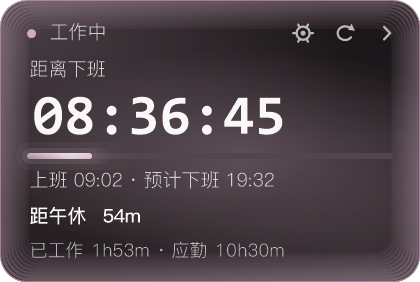
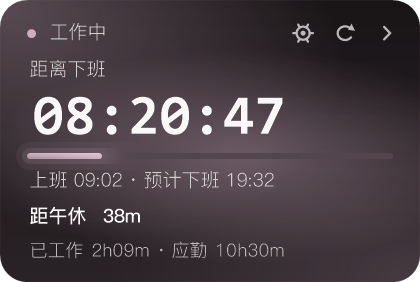
fix: 调色方块点击、取消 D 光效并恢复默认原样式 (v2.7.2)
修复 SvPanel.Changed 未把 sat/val 收回表单导致调色方块点了没反应；删除 D 内缘轮廓光，背景光效改为原样式(默认)/A/B/A+B；测试 106+140。

diff --git a/src/Widget.cs b/src/Widget.cs
@@ -1647,12 +1647,11 @@ namespace WorkCountdown
         private void PaintCardGlow(Graphics g, GraphicsPath cardPath)
         {
             string mode = settings.ui.cardGlow;
-            if (mode != "corner" && mode != "bar" && mode != "rim" && mode != "all") return;
+            if (mode != "corner" && mode != "bar" && mode != "all") return;   // classic = 上个版本原样
             bool all = mode == "all";
             bool a = all || mode == "corner";
             bool b = all || mode == "bar";
-            bool d = all || mode == "rim";
-            double damp = all ? 0.55 : 1.0;
+            double damp = all ? 0.70 : 1.0;
             Color accent = theme.accent;
             var saved = g.Save();
             g.SetClip(cardPath, CombineMode.Intersect);
@@ -1674,10 +1673,6 @@ namespace WorkCountdown
                 DrawGlowEllipse(g, new RectangleF(cx - rx, cy - ry, rx * 2, ry * 2),
                     new PointF(cx, cy), accent, 0.32 * CardGlowStrength * damp);
             }
-            if (d)
-            {
-                DrawRimGlow(g, accent, 0.46 * CardGlowStrength * damp);
-            }
             g.Restore(saved);
         }
 
@@ -1697,26 +1692,6 @@ namespace WorkCountdown
                     g.FillPath(br, path);
                 }
             }
-        }
-
-        private void DrawRimGlow(Graphics g, Color accent, double alpha)
-        {
-            alpha = Math.Max(0, Math.Min(1, alpha));
-            if (alpha <= 0.003) return;
-            int radius = S(collapsed ? 14 : 18);
-            int step = Math.Max(1, S(2));
-            for (int i = 0; i < 10; i++)
-            {
-                int inset = i * step;
-                var r = new Rectangle(inset, inset, Width - inset * 2, Height - inset * 2);
-                if (r.Width <= 6 || r.Height <= 6) break;
-                using (var path = RoundPath(r, Math.Max(3, radius - inset / 3)))
-                using (var pen = new Pen(Color.FromArgb((int)Math.Round(255 * alpha * (1 - i / 11.0)), accent), Math.Max(1, step)))
-                    g.DrawPath(pen, path);
-            }
-            using (var path = RoundPath(new Rectangle(0, 0, Width, Height), radius))
-            using (var pen = new Pen(Color.FromArgb((int)Math.Round(255 * Math.Min(0.9, alpha * 1.15)), accent), Math.Max(1, S(1))))
-                g.DrawPath(pen, path);
         }
 
         private const double CardFloodDelayMs = 100;

diff --git a/src/SettingsForm.cs b/src/SettingsForm.cs
@@ -1032,7 +1032,7 @@ var n = CardBox(page, "说明", 8, 446, 492, 66);
             cmbGlow = new ComboBox();
             cmbGlow.DropDownStyle = ComboBoxStyle.DropDownList;
             cmbGlow.SetBounds(76, 182, 170, 24);
-            cmbGlow.Items.AddRange(new object[] { "角落柔光 A", "进度条同色光 B", "内缘轮廓光 D", "三种都开" });
+            cmbGlow.Items.AddRange(new object[] { "原样式（默认）", "角落柔光 A", "进度条同色光 B", "两种都开 A+B" });
             g.Controls.Add(cmbGlow);
             g.Controls.Add(Lbl("强度 1.6×", 254, 184, 90, 22));
 
@@ -1154,8 +1154,8 @@ var n = CardBox(page, "说明", 8, 446, 492, 66);
             rbSpreadScreen.Checked = s.ui.reminderSpread == "screen";
             rbStyleCircle.Checked = s.ui.reminderSpreadStyle != "bar";
             rbStyleBar.Checked = s.ui.reminderSpreadStyle == "bar";
-            cmbGlow.SelectedIndex = s.ui.cardGlow == "corner" ? 0
-                : s.ui.cardGlow == "bar" ? 1 : s.ui.cardGlow == "rim" ? 2 : 3;
+            cmbGlow.SelectedIndex = s.ui.cardGlow == "corner" ? 1
+                : s.ui.cardGlow == "bar" ? 2 : s.ui.cardGlow == "all" ? 3 : 0;
 
             if (picker != null)
             {
@@ -1238,7 +1238,7 @@ var n = CardBox(page, "说明", 8, 446, 492, 66);
             s.ui.reminderHoldSeconds = (int)numReminderHold.Value;
             s.ui.reminderSpread = rbSpreadScreen.Checked ? "screen" : "card";
             s.ui.reminderSpreadStyle = rbStyleBar.Checked ? "bar" : "circle";
-            string[] glowIds = new string[] { "corner", "bar", "rim", "all" };
+            string[] glowIds = new string[] { "classic", "corner", "bar", "all" };
             s.ui.cardGlow = glowIds[Math.Max(0, Math.Min(glowIds.Length - 1, cmbGlow.SelectedIndex))];
             if (cbAutoStart.Checked != Startup.IsEnabled()) Startup.SetEnabled(cbAutoStart.Checked);
 
@@ -1924,7 +1924,7 @@ var n = CardBox(page, "说明", 8, 446, 492, 66);
 
                 sv = new SvPanel();
                 sv.SetBounds(16, 16, 220, 190);
-                sv.Changed += delegate { SyncFromHsv(); };
+                sv.Changed += delegate { sat = sv.Sat; val = sv.Val; SyncFromHsv(); };
                 Controls.Add(sv);
 
                 hueBar = new HuePanel();

diff --git a/test/Check.cs b/test/Check.cs
@@ -566,11 +566,11 @@ class Check
         // ---- 5e. 背景光效设置 + 自建主题的背景/进度条分开 ----
         {
             var s = new Settings();
-            Ok("背景光效默认三种都开", s.ui.cardGlow == "all", s.ui.cardGlow);
+            Ok("背景光效默认原样式", s.ui.cardGlow == "classic", s.ui.cardGlow);
             var bad = new Settings();
             bad.ui.cardGlow = "bogus";
             bad.Normalize();
-            Ok("非法背景光效回落三种都开", bad.ui.cardGlow == "all", bad.ui.cardGlow);
+            Ok("非法背景光效回落原样式", bad.ui.cardGlow == "classic", bad.ui.cardGlow);
 
             Color darkThemeA, darkThemeB, darkInk;
             ReminderStyles.Resolve(ReminderStyles.Follow, Themes.Get("zi-fengxin"), out darkThemeA, out darkThemeB, out darkInk);
@@ -628,6 +628,17 @@ class Check
                 ct.bg == "#101C2E" && ct.bar == "#FFB454"
                 && loaded.accent.R == 0xFF && loaded.bgTop.B == 0x2E,
                 ct.bg + " / " + ct.bar + " loaded=" + loaded.accent);
+
+            // 调色方块点一下要真的改当前颜色（之前 Changed 只同步面板，没把 sv 的 sat/val 收回表单，点了会弹回去）
+            using (var dlg = new ColorWheelForm("测试", "测试",
+                Color.FromArgb(16, 28, 46), Color.FromArgb(255, 180, 84)))
+            {
+                var sv = (Control)Get(dlg, "sv");
+                var hex = (Label)Get(dlg, "lblHex");
+                string before = hex.Text;
+                sv.GetType().GetMethod("Pick", F).Invoke(sv, new object[] { new Point(sv.Width / 2, sv.Height / 2) });
+                Ok("调色方块点击能改色", hex.Text != before, before.Replace("\r\n", " | ") + " -> " + hex.Text.Replace("\r\n", " | "));
+            }
         }
 
         // ---- 5d. 新提醒动画：扩散从条子末端开始，停留时两块色 + 全屏模式 ----

diff --git a/src/Models.cs b/src/Models.cs
@@ -419,7 +419,7 @@ namespace WorkCountdown
         public int reminderHoldSeconds { get; set; } // 3..20
         public string reminderSpread { get; set; }      // card | screen：提醒扩散范围
         public string reminderSpreadStyle { get; set; } // circle | bar：提醒扩散样式
-        public string cardGlow { get; set; }            // corner | bar | rim | all：卡片背景光效
+        public string cardGlow { get; set; }            // classic | corner | bar | all：卡片背景光效
         public string lunchReminderStyle { get; set; }   // 午休提醒配色（ReminderStyles 的 id）
         public string eveningReminderStyle { get; set; } // 晚休提醒配色
         public string offReminderStyle { get; set; }     // 下班提醒配色
@@ -441,7 +441,7 @@ namespace WorkCountdown
             reminderHoldSeconds = 6;
             reminderSpread = "card";
             reminderSpreadStyle = "circle";
-            cardGlow = "all";
+            cardGlow = "classic";
             lunchReminderStyle = "lan-yuming";
             eveningReminderStyle = "zi-jiegeng";
             offReminderStyle = "forest";
@@ -834,8 +834,8 @@ namespace WorkCountdown
             if (s.ui.reminderSpread != "screen") s.ui.reminderSpread = "card";
             if (s.ui.reminderSpreadStyle != "bar") s.ui.reminderSpreadStyle = "circle";
             if (s.ui.cardGlow != "corner" && s.ui.cardGlow != "bar"
-                && s.ui.cardGlow != "rim" && s.ui.cardGlow != "all")
-                s.ui.cardGlow = "all";
+                && s.ui.cardGlow != "all")
+                s.ui.cardGlow = "classic";
             s.ui.lunchReminderStyle = ReminderStyles.Normalize(s.ui.lunchReminderStyle, "lan-yuming");
             s.ui.eveningReminderStyle = ReminderStyles.Normalize(s.ui.eveningReminderStyle, "zi-jiegeng");
             s.ui.offReminderStyle = ReminderStyles.Normalize(s.ui.offReminderStyle, "forest");

diff --git a/README.md b/README.md
@@ -112,15 +112,15 @@
 
 | 选项 | 效果 |
 |---|---|
+| 原样式（默认） | 和 v2.7.0 一样，只有主题渐变，不额外加光 |
 | 角落柔光 A | 左上主光 + 右下反光，最接近“只稍微亮一点” |
-| 进度条同色光 B | 光从进度条附近晕开，跟进度条的暖绿色呼应 |
-| 内缘轮廓光 D | 沿圆角内缘一圈微光，卡片边缘更明确 |
-| 三种都开 | A + B + D 一起叠；默认这一项 |
+| 进度条同色光 B | 光从进度条附近晕开，跟进度条的高亮色呼应 |
+| 两种都开 A+B | A + B 一起叠 |
 
-- 强度固定在 **1.6×**；光取当前主题的强调色（自建主题就是进度条色），所以换主题/换配色会跟着变。
+- 强度固定在 **1.6×**（只对加光模式生效）；光取当前主题的强调色（自建主题就是进度条色），所以换主题/换配色会跟着变。
 - 只叠在卡片背景上，文字、进度条自身的高光、提醒色块都不动；光效是静态的，不额外跑动画。
 
-![卡片背景光效](card-glow.png)
+![卡片背景光效（A+B 模式）](card-glow.png)
 
 
 ### 到点不走？常驻「该下班啦」
@@ -201,7 +201,7 @@
 ![完整提醒时序](design-preview.gif)
 
 
-验证：**106 条逻辑断言 + 139 条界面与规则验收断言**（色卡占比、文字对比度、提醒常驻时长、固定日程的重复规则与截止日、列表滚动、叠卡动画的先后顺序、行距与「最后 30 分钟」的彩色条、厘秒计时、圆角的半透明像素、展开时的错峰次序、「分层窗口别开双缓冲」、置顶被摘掉后看门狗能补回来、流光两头淡入淡出的曲线与绘制结果、新提醒从进度条末端扩散/停留两色/退场收回到卡片、背景光效 A/B/D 的取色、自建主题背景/进度条分开与存读，以及三条点击路径：小卡片点开、右上角箭头收起、手抖 2 像素仍算点击）。
+验证：**106 条逻辑断言 + 140 条界面与规则验收断言**（色卡占比、文字对比度、提醒常驻时长、固定日程的重复规则与截止日、列表滚动、叠卡动画的先后顺序、行距与「最后 30 分钟」的彩色条、厘秒计时、圆角的半透明像素、展开时的错峰次序、「分层窗口别开双缓冲」、置顶被摘掉后看门狗能补回来、流光两头淡入淡出的曲线与绘制结果、新提醒从进度条末端扩散/停留两色/退场收回到卡片、背景光效 A/B 的取色、自建主题背景/进度条分开与存读，以及三条点击路径：小卡片点开、右上角箭头收起、手抖 2 像素仍算点击）。
 
 ## 显示与缩放
 
@@ -390,7 +390,7 @@ lark-cli auth login --scope "im:message.send_as_user"
 | `package.ps1` | 打包脚本：生成 install/uninstall 脚本、说明和 zip |
 | `assets/app.manifest` | DPI 感知清单（构建时生成并嵌入 exe） |
 | `test/Test.cs` | 策略、状态与日程提醒的断言测试（106 条，全绿；另有 600 个离屏渲染组合） |
-| `test/Check.cs` | 界面与规则的独立验收（139 条：色卡占比、提醒常驻、重复规则、自建日程触发、自建主题进列表、小卡片点开、右上角箭头收起、手抖 2 像素仍算点击、分层窗口没开双缓冲、置顶被摘掉后看门狗补回来、流光两头淡入淡出、提醒扩散设置、卡片扩散与退场、背景光效开关、自建主题背景/进度条分开、列表滚动、叠卡动画、行距与「最后 30 分钟」） |
+| `test/Check.cs` | 界面与规则的独立验收（140 条：色卡占比、提醒常驻、重复规则、自建日程触发、自建主题进列表、小卡片点开、右上角箭头收起、手抖 2 像素仍算点击、分层窗口没开双缓冲、置顶被摘掉后看门狗补回来、流光两头淡入淡出、提醒扩散设置、卡片扩散与退场、背景光效开关、自建主题背景/进度条分开、调色方块点击、列表滚动、叠卡动画、行距与「最后 30 分钟」） |
 | `test/build-tests.ps1` | 一条命令编译并跑上面两套测试，**已经带好 DPI 感知清单参数**（不带会假失败 3 条） |
 | `test/DocShots.cs` | 离屏渲染 README 用的设置窗口截图（`doc-*.png`） |
 | `test/Variants.cs` | 生成行距对比图 `variants.png` 和字体对比图 `fonts.png`（挑版式用） |
